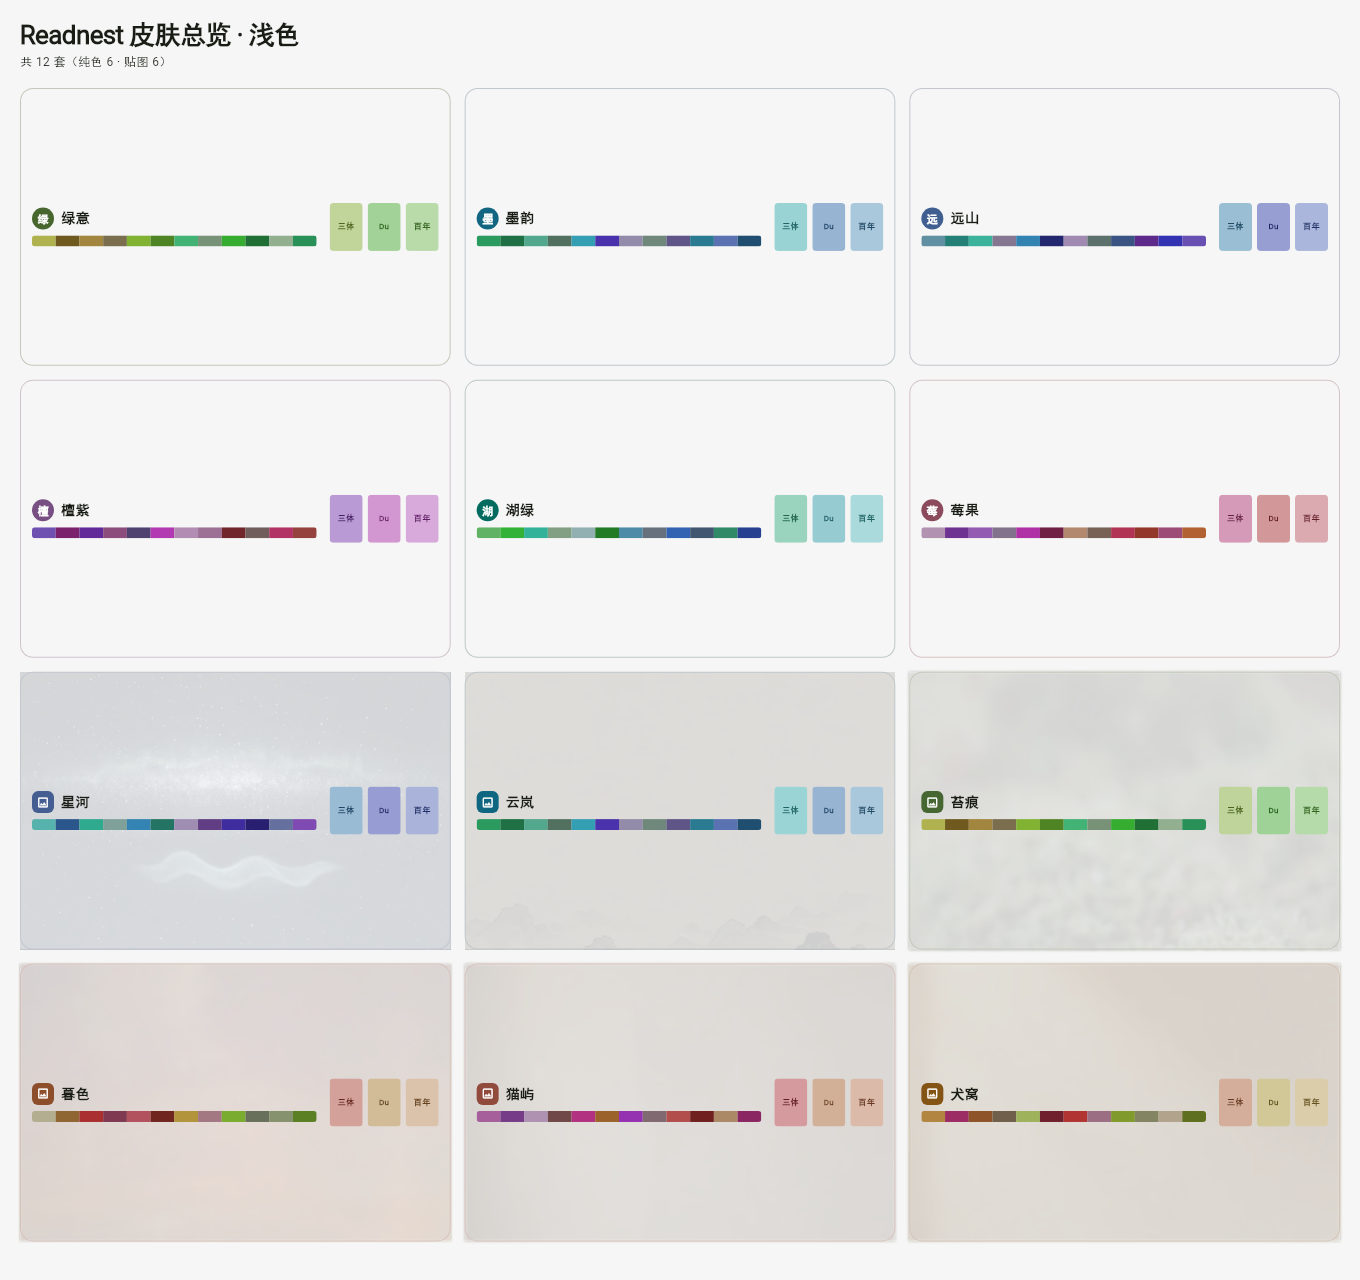
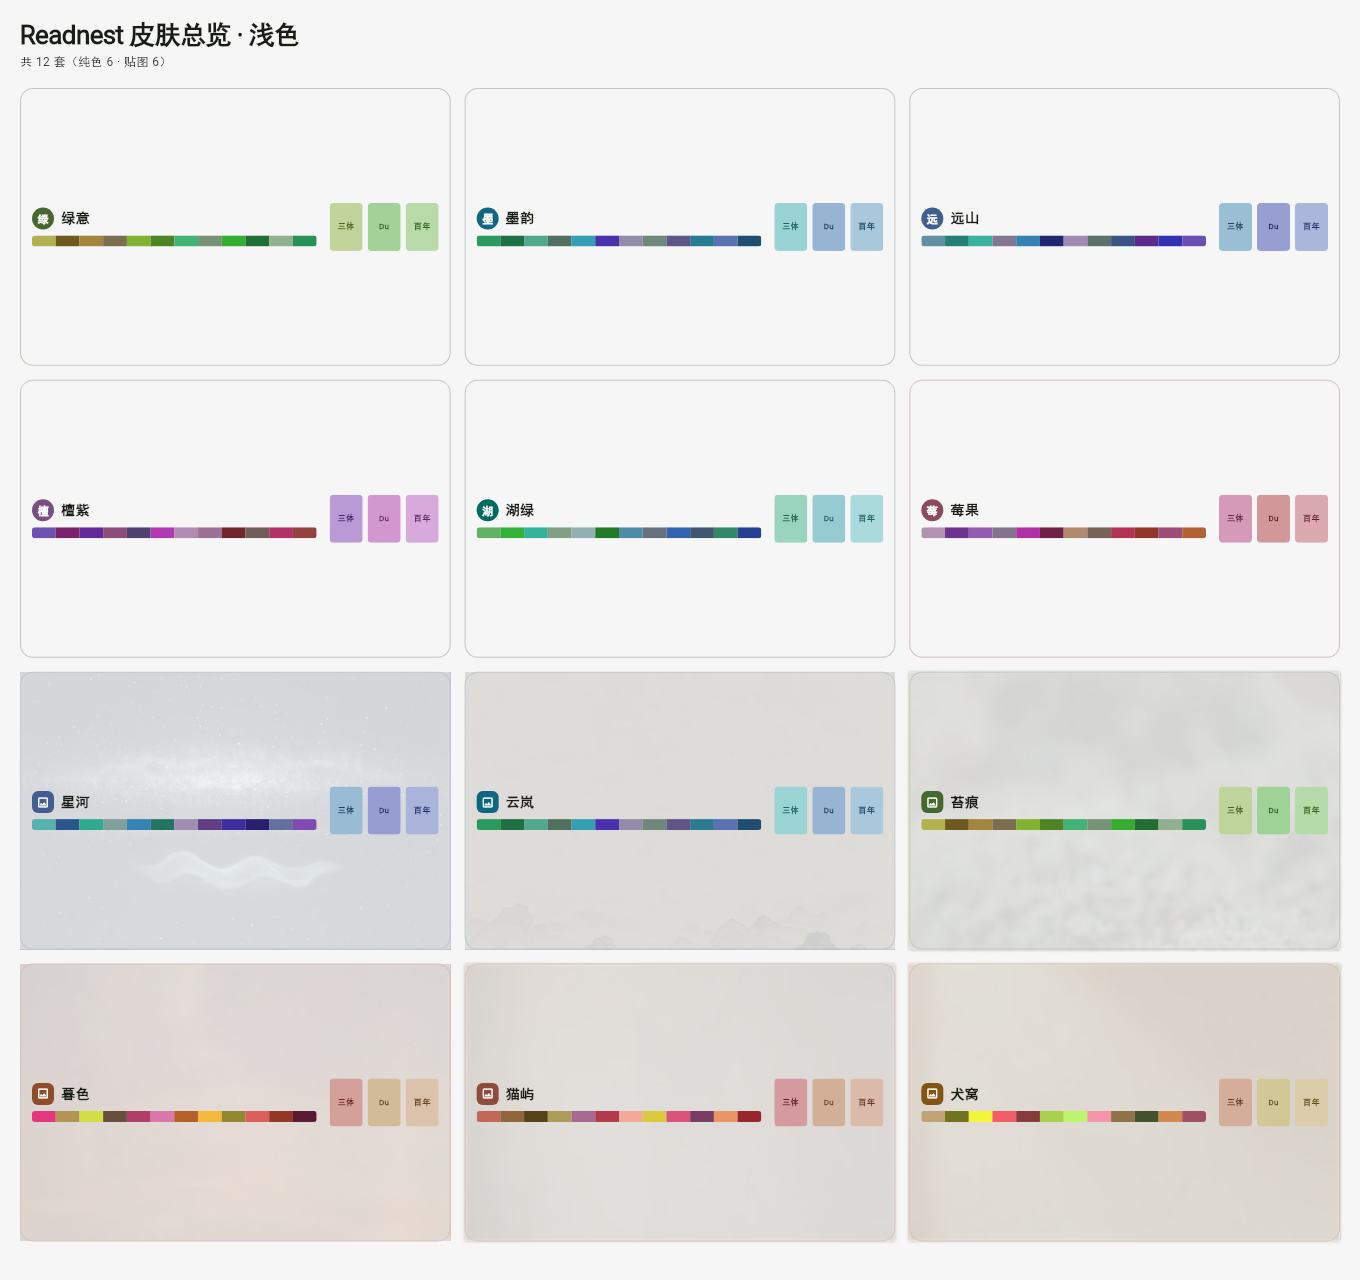
fix(theme): 猫屿/犬窝/暮色色板收回同族，暮色 blur 改小
贴图皮肤的图表色板与主题「割裂」不是观感问题，而是色相越界。

## 诊断：离群色
量化三套色板的色相后发现超出种子 ±52° 的颜色：
  猫屿  4 个紫色 286°~309°（粉橘主题里冒出紫）
  暮色  4 个黄绿 79°~84°（橙棕黄昏里冒绿）
  犬窝  2 个洋红 330°~331°
犬窝最严重：原色板是紫/蓝/青绿的混合调，与蜜黄犬窝完全不是一回事。

## 重新求解的坑（都踩过）
1. **手工改色值行不通**——三条硬约束同时生效（色相在带内、两两曼哈顿
   > 0.28、与纸色亮度差 ≥ 0.045），换掉离群色会撞车或离纸色太近。
2. **模拟退火跳不出局部极小**——12 个色要塞进 ±52° 色带，单点扰动穿不过
   邻居。ITER=160000（17 秒）后最小间距仍只有 0.027~0.165。
3. **色相等距 + 明度三角波也不够**——104° 色带等分 12 份后相邻只差 8.7°，
   纯色相提供的曼哈顿距离不够 0.145/0.28，间距只到 0.075~0.118。
4. **最关键：约束必须在 8bit 域内判定**。用「生成时的目标色相」判越界是
   假阳性——8bit 量化会让窄色带内的色相严重偏移（实测目标 -42° 与 62°
   量化后反算都是 0°；彩度 0.5 的能偏 100°+）。曾据此报「越界 0」，
   样张图却仍是蓝紫。改成量化后再判，才看到真相。
5. **必须逐个贪心，不能一次随机 12 个**。同样约束下逐个放能塞满 12/12
   （每步都保证当前集合合法），一次随机 12 个则 40000 次全部失败
   （要求「一枪命中」，联合概率极低）。

最终解：六套全部落在暖调内，最小两两曼哈顿距离 0.280。
猫屿是砖红/暖粉/焦橙/玫红，犬窝是暖黄绿，暮色是暖橙金。

## 暮色 blur：原判断错了，实测反向
上一轮我说「1.2 偏平、建议加到 2.5」，实测**方向相反**：
高频能量（相邻像素亮度差均值）随 sigma 单调下降
0 → 0.250、0.6 → 0.249、1.2 → 0.237、1.8 → 0.210、2.5 → 0.180、3.5 → 0.166。
胶片质感全在高频细节里，模糊越大越像一块纯米色纸。
故改为 0.5，测试里的blur 上限维持 2.0 不动。

注：分位数（p5~p95）对模糊不敏感，测纹理细节要用高频能量——
一开始用动态范围测，得出「blur 前后完全相同」的错误结论。

全量 536 例通过，analyze 无新增问题。样张图同步更新。

diff --git a/app/lib/ui/theme.dart b/app/lib/ui/theme.dart
@@ -399,7 +399,13 @@ const List<AppTheme> appThemes = [
     chartPaletteDark: _honeyDark,
     backgroundAsset: 'assets/backgrounds/bg_dusk.webp',
     backgroundOpacity: 0.44,
-    backgroundBlur: 1.2,
+    // 0.5 而非原先的 1.2：**加大 blur 会让胶片颗粒更平，不是更明显**。
+    // 实测高频能量（相邻像素亮度差均值）随sigma 单调下降：
+    // 0 → 0.250、0.6 → 0.249、1.2 → 0.237、1.8 → 0.210、
+    // 2.5 → 0.180、3.5 → 0.166。胶片质感全在高频细节里，
+    // 模糊越大越像一块纯米色纸。
+    // （曾误以为「1.2 偏平该加大」，实测方向相反后回退到这里。）
+    backgroundBlur: 0.5,
   ),
 
   // 猫屿：暖奶油 + 猫影。主色用**粉橘** 而非贴图的米黄，
@@ -604,68 +610,46 @@ const List<Color> _plumDark = [
   Color(0xFF703432),
 ];
 
-// 暖阳 / 蜜色：橙黄与琥珀
+// 暮色 / 黄昏胶片：橙黄与琥珀
+//
+// 色相锁在种子 21° ±52° 内。原色板有 4 个黄绿（79°~84°），
+// 在橙棕黄昏里格外突兀——这就是「图表色板与主题割裂」的实质。
+// 重解后 12 色全部落在暖调，**判据全部在 8bit 域内**做：
+// 8bit 量化会让窄色带内的色相严重偏移（实测彩度 0.5 的颜色能偏 100°），
+// 用生成时的目标色相判「在带内」是假阳性，必须量化后再判。
 const List<Color> _honey = [
-  Color(0xFFB2AE8F),
-  Color(0xFF8F6531),
-  Color(0xFFA92F30),
-  Color(0xFF7F3951),
-  Color(0xFFB2525F),
-  Color(0xFF70261F),
-  Color(0xFFB2943C),
-  Color(0xFFA47883),
-  Color(0xFF7AAC30),
-  Color(0xFF68705C),
-  Color(0xFF86916E),
-  Color(0xFF5B8024),
+  Color(0xFFE3377F), Color(0xFFB29455), Color(0xFFD1DE46),
+  Color(0xFF664F3B), Color(0xFFB03E69), Color(0xFFD976AA),
+  Color(0xFFB26128), Color(0xFFF2B93B), Color(0xFF918831),
+  Color(0xFFDB5F5D), Color(0xFF933727), Color(0xFF5A1A34),
 ];
 
 /// 深色模式专用：同一色相家族，明度分布重新求解以适配深色纸。
 const List<Color> _honeyDark = [
-  Color(0xFFB28A93),
-  Color(0xFFB24359),
-  Color(0xFFB27132),
-  Color(0xFF704441),
-  Color(0xFF992B2C),
-  Color(0xFF4B7522),
-  Color(0xFF95616D),
-  Color(0xFF66705C),
-  Color(0xFFAFB247),
-  Color(0xFF879D61),
-  Color(0xFF9CB286),
-  Color(0xFF70AF31),
+  Color(0xFFF69A5B), Color(0xFFCAB471), Color(0xFF9D8F5A),
+  Color(0xFFE2F152), Color(0xFF9DA828), Color(0xFFBECB4C),
+  Color(0xFFF8C4A0), Color(0xFFD76599), Color(0xFFBE8637),
+  Color(0xFFDE423B), Color(0xFFF0506F), Color(0xFFBA6C70),
 ];
 
-// 樱粉 / 花信
+// 猫屿 / 暖粉
+//
+// 色相锁在种子 10° ±52° 内。原色板有 4 个紫色（286°~309°），
+// 在粉橘主题里明显是另一套色系的颜色。重解后 12 色全部落在暖调
+// （砖红 / 暖粉 / 焦橙 / 玫红），判据同样在 8bit 域内判定。
 const List<Color> _blossom = [
-  Color(0xFFA65F9B),
-  Color(0xFF763C88),
-  Color(0xFFAF92B2),
-  Color(0xFF704847),
-  Color(0xFFB23281),
-  Color(0xFF9B632B),
-  Color(0xFF9532B2),
-  Color(0xFF806970),
-  Color(0xFFB24F4D),
-  Color(0xFF70201F),
-  Color(0xFFAB8967),
-  Color(0xFF8A2762),
+  Color(0xFFC26858), Color(0xFF92653D), Color(0xFF574117),
+  Color(0xFFAE9D58), Color(0xFFA76A95), Color(0xFFB13B4B),
+  Color(0xFFF1AA9A), Color(0xFFDACB3E), Color(0xFFDB537B),
+  Color(0xFF783B62), Color(0xFFE89663), Color(0xFF9A252F),
 ];
 
 /// 深色模式专用：同一色相家族，明度分布重新求解以适配深色纸。
 const List<Color> _blossomDark = [
-  Color(0xFFAB7DB2),
-  Color(0xFF683270),
-  Color(0xFFB23286),
-  Color(0xFF8B7284),
-  Color(0xFF9D46AB),
-  Color(0xFF70351F),
-  Color(0xFF9A2B40),
-  Color(0xFF9F845C),
-  Color(0xFFB25254),
-  Color(0xFF70584B),
-  Color(0xFFB2A48F),
-  Color(0xFF906628),
+  Color(0xFFAD9266), Color(0xFFCE7CAC), Color(0xFFEAAB4E),
+  Color(0xFFCAB731), Color(0xFFCFD36E), Color(0xFFCB6569),
+  Color(0xFFA02827), Color(0xFFFB7145), Color(0xFFE652BC),
+  Color(0xFFDD4182), Color(0xFFFBD599), Color(0xFFFA9279),
 ];
 
 // 湖绿 / 湖蓝
@@ -700,36 +684,23 @@ const List<Color> _lagoonDark = [
   Color(0xFF2A4970),
 ];
 
-// 蜜柑 / 活力橙
+// 犬窝 / 蜜黄
+//
+// 改动最大的一套：原色板是紫、蓝、青绿的混合调，
+// 与蜜黄犬窝的主题完全不是一回事。重解后 12 色全部收进暖橙黄区间。
 const List<Color> _citrus = [
-  Color(0xFFB28541),
-  Color(0xFF9C2C64),
-  Color(0xFF8E5328),
-  Color(0xFF705F4B),
-  Color(0xFF9EB25C),
-  Color(0xFF701F2C),
-  Color(0xFFB23432),
-  Color(0xFF9B6E84),
-  Color(0xFF809A2B),
-  Color(0xFF838462),
-  Color(0xFFB2A48C),
-  Color(0xFF5E701F),
+  Color(0xFFC0A277), Color(0xFF707320), Color(0xFFF1F737),
+  Color(0xFFF35D67), Color(0xFF883B3E), Color(0xFFA9D04E),
+  Color(0xFFBCF46C), Color(0xFFF695A9), Color(0xFF907349),
+  Color(0xFF43522D), Color(0xFFD28951), Color(0xFF9F5067),
 ];
 
 /// 深色模式专用：同一色相家族，明度分布重新求解以适配深色纸。
 const List<Color> _citrusDark = [
-  Color(0xFFB28E9B),
-  Color(0xFFAC4333),
-  Color(0xFF917D77),
-  Color(0xFF8E3254),
-  Color(0xFFB24B71),
-  Color(0xFF53701F),
-  Color(0xFF8BB246),
-  Color(0xFF6A705C),
-  Color(0xFFABB273),
-  Color(0xFF705332),
-  Color(0xFF8E7A28),
-  Color(0xFFB28C4A),
+  Color(0xFFBF7D5E), Color(0xFFD1633C), Color(0xFFB7DD51),
+  Color(0xFFFCCA38), Color(0xFFF395A7), Color(0xFFF24D7A),
+  Color(0xFFEBEF8F), Color(0xFF74A636), Color(0xFFDBBC72),
+  Color(0xFFAC9533), Color(0xFF9E2D53), Color(0xFF9EA263),
 ];
 
 // 莓果 / 亮玫
